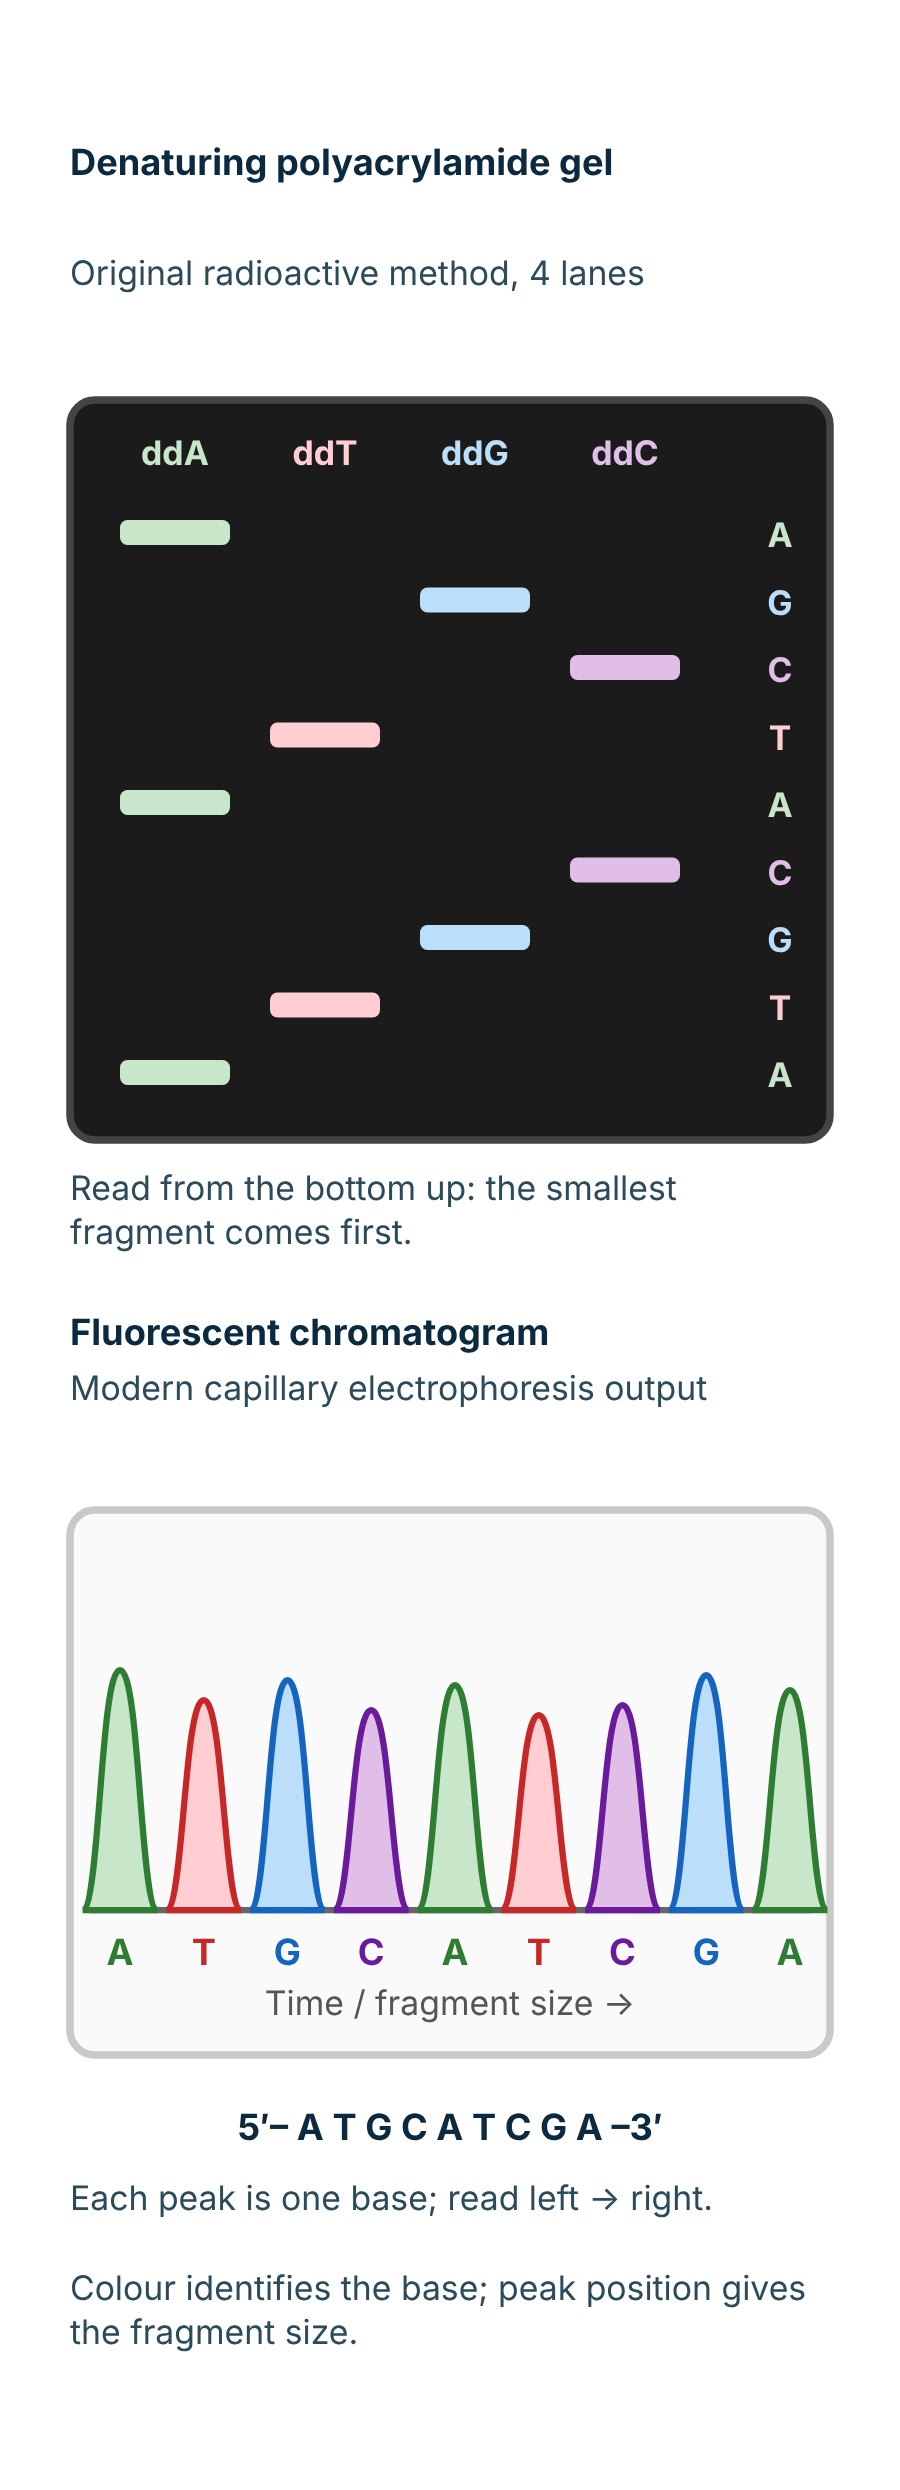
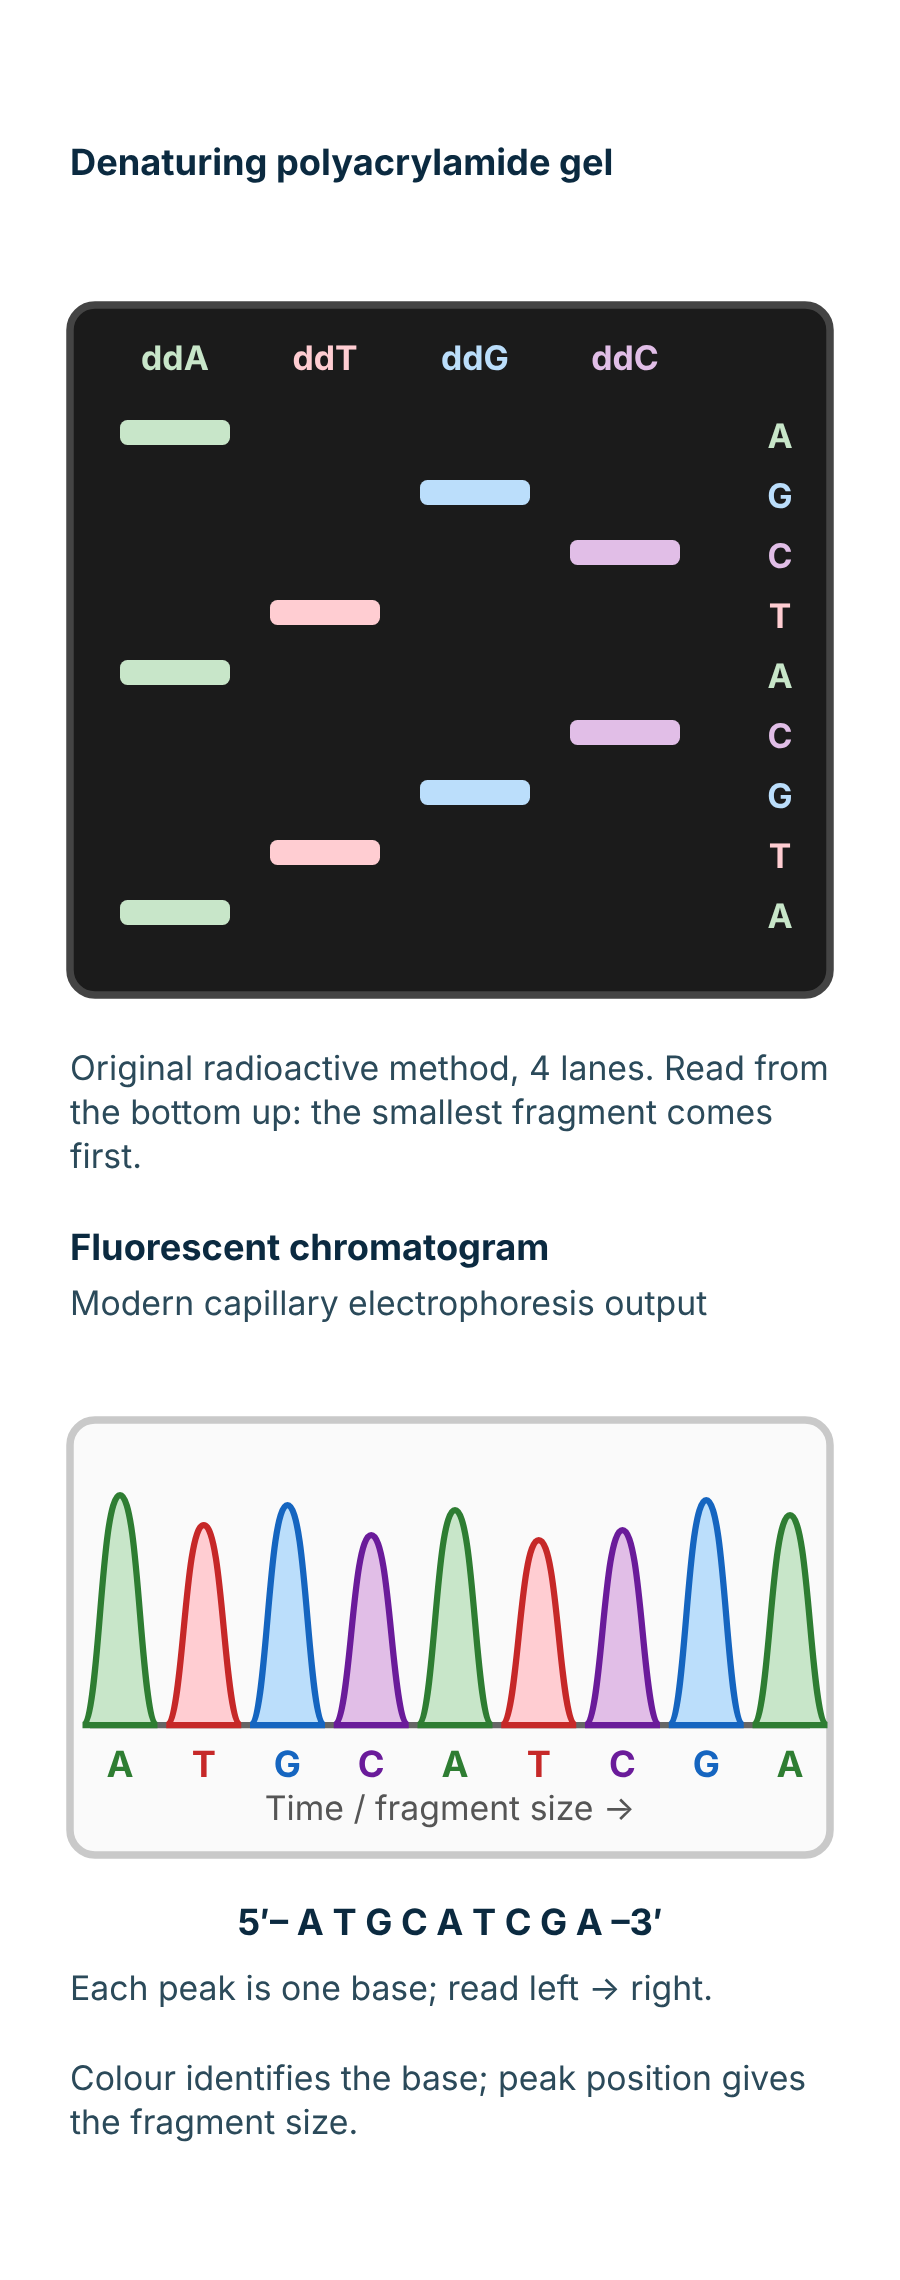
Sanger d03: tighter layout (820 -> 760 dp) after PSS budget hit 152 MB > 150 MB on the TA inline capture
Claude-Session: https://claude.ai/code/session_01Wo7Biy93fw6YCyh6drJ1WX

diff --git a/tools/figures/src/sanger_dna_sequencing-d03/gen_figure.py b/tools/figures/src/sanger_dna_sequencing-d03/gen_figure.py
@@ -6,8 +6,7 @@ from svgkit import T, svg
 from sangerkit import READ, INK, Strings
 S = Strings({
  'gel_h': ("Denaturing polyacrylamide gel", "இயல்பிழப்பு பாலிஅக்ரிலமைடு ஜெல்"),
- 'gel_s': ("Original radioactive method, 4 lanes", "அசல் கதிரியக்க முறை, 4 தடங்கள்"),
- 'dir': ("Read from the bottom up: the smallest fragment comes first.", "கீழிருந்து மேலாக வாசி: சிறிய துண்டு முதலில் வரும்."),
+ 'dir': ("Original radioactive method, 4 lanes. Read from the bottom up: the smallest fragment comes first.", "அசல் கதிரியக்க முறை, 4 தடங்கள். கீழிருந்து மேலாக வாசி: சிறிய துண்டு முதலில் வரும்."),
  'ch_h': ("Fluorescent chromatogram", "ஒளிர்வு நிறவரைவு"),
  'ch_s': ("Modern capillary electrophoresis output", "நவீன நுண்குழல் மின்னாற்பிரித்தல் வெளியீடு"),
  'time': ("Time / fragment size →", "நேரம் / துண்டு அளவு →"),
@@ -16,34 +15,34 @@ S = Strings({
 })
 OFF = 56
 B = [f'<g transform="translate(0,{OFF})">']
-B.append(T('gel_h', 28, 14, 'b', 'start', 304, '#0b2a40', True)); B.append(T('gel_s', 28, 58, 's', 'start', 304, '#2b4a5a'))
-gy = 104
-B.append(f'<rect x="28" y="{gy}" width="304" height="296" rx="10" fill="#1b1b1b" stroke="#444" stroke-width="3"/>')
+B.append(T('gel_h', 28, 14, 'b', 'start', 304, '#0b2a40', True)); 
+gy = 66
+B.append(f'<rect x="28" y="{gy}" width="304" height="276" rx="10" fill="#1b1b1b" stroke="#444" stroke-width="3"/>')
 lanes = ['A', 'T', 'G', 'C']; cx = {b: 70 + 60 * i for i, b in enumerate(lanes)}
 for b in lanes: B.append(T(S.lit('dd' + b), cx[b], gy + 26, 's', 'middle', 52, INK[b][1], True))
 n = len(READ)
 for r in range(n):
     pos = n - 1 - r                      # top row = longest fragment = last base
-    b = READ[pos]; y = gy + 48 + r * 27
+    b = READ[pos]; y = gy + 46 + r * 24
     B.append(f'<rect x="{cx[b]-22}" y="{y}" width="44" height="10" rx="3" fill="{INK[b][1]}"/>')
     B.append(T(S.lit(b), 312, y + 11, 's', 'middle', 16, INK[b][1], True))
-B.append(T('dir', 28, 424, 's', 'start', 304, '#2b4a5a'))
-cy = 482
+B.append(T('dir', 28, 376, 's', 'start', 304, '#2b4a5a'))
+cy = 448
 B.append(T('ch_h', 28, cy, 'b', 'start', 304, '#0b2a40', True)); B.append(T('ch_s', 28, cy + 22, 's', 'start', 304, '#2b4a5a'))
-py = cy + 66; base = py + 160
-B.append(f'<rect x="28" y="{py}" width="304" height="218" rx="10" fill="#fafafa" stroke="#c9c9c9" stroke-width="3"/>')
+py = cy + 64; base = py + 122
+B.append(f'<rect x="28" y="{py}" width="304" height="174" rx="10" fill="#fafafa" stroke="#c9c9c9" stroke-width="3"/>')
 B.append(f'<line x1="36" y1="{base}" x2="324" y2="{base}" stroke="#666" stroke-width="2.5"/>')
-hs = [96, 84, 92, 80, 90, 78, 82, 94, 88]
+hs = [92, 80, 88, 76, 86, 74, 78, 90, 84]
 for i, b in enumerate(READ):
     c = 28 + 20 + i * 33.5; h = hs[i]
     B.append(f'<path d="M{c-15:.1f},{base} C{c-8:.1f},{base} {c-8:.1f},{base-h} {c:.1f},{base-h} C{c+8:.1f},{base-h} {c+8:.1f},{base} {c+15:.1f},{base} Z" fill="{INK[b][1]}" stroke="{INK[b][0]}" stroke-width="2.5"/>')
-    B.append(T(S.lit(b), c, base + 22, 'b', 'middle', 24, INK[b][0], True))
-B.append(T('time', 180, base + 42, 's', 'middle', 280, '#555'))
-sy = py + 218 + 34
+    B.append(T(S.lit(b), c, base + 21, 'b', 'middle', 24, INK[b][0], True))
+B.append(T('time', 180, base + 38, 's', 'middle', 280, '#555'))
+sy = py + 174 + 32
 B.append(T(S.lit('5′– ' + ' '.join(READ) + ' –3′'), 180, sy, 'b', 'middle', 300, '#0b2a40', True))
-B.append(T('n1', 28, sy + 28, 's', 'start', 304, '#2b4a5a')); B.append(T('n2', 28, sy + 64, 's', 'start', 304, '#2b4a5a'))
+B.append(T('n1', 28, sy + 26, 's', 'start', 304, '#2b4a5a')); B.append(T('n2', 28, sy + 62, 's', 'start', 304, '#2b4a5a'))
 B.append('</g>')
 S.alt("Two views of the same Sanger sequence. Top: a denaturing polyacrylamide gel with four lanes, ddA, ddT, ddG and ddC. Reading from the bottom up, the bands spell A T G C A T C G A. Bottom: a fluorescent chromatogram with nine coloured peaks, A green, T red, G blue, C purple, reading left to right as 5′ A T G C A T C G A 3′.",
       "ஒரே சேங்கர் வரிசையின் இரு காட்சிகள். மேலே: ddA, ddT, ddG, ddC என நான்கு தடங்கள் கொண்ட இயல்பிழப்பு பாலிஅக்ரிலமைடு ஜெல்; கீழிருந்து மேலாக வாசித்தால் பட்டைகள் A T G C A T C G A எனத் தெரிவிக்கின்றன. கீழே: ஒன்பது நிறமுள்ள உச்சங்கள் கொண்ட ஒளிர்வு நிறவரைவு (A பச்சை, T சிவப்பு, G நீலம், C ஊதா); இடமிருந்து வலமாக 5′ A T G C A T C G A 3′.")
 S.write(os.path.join(here, 'strings.json'))
-print(svg(360, int(sy + 64 + 40 + 2 * OFF - 20), B))
+print(svg(360, int(sy + 62 + 40 + 2 * OFF - 20), B))
